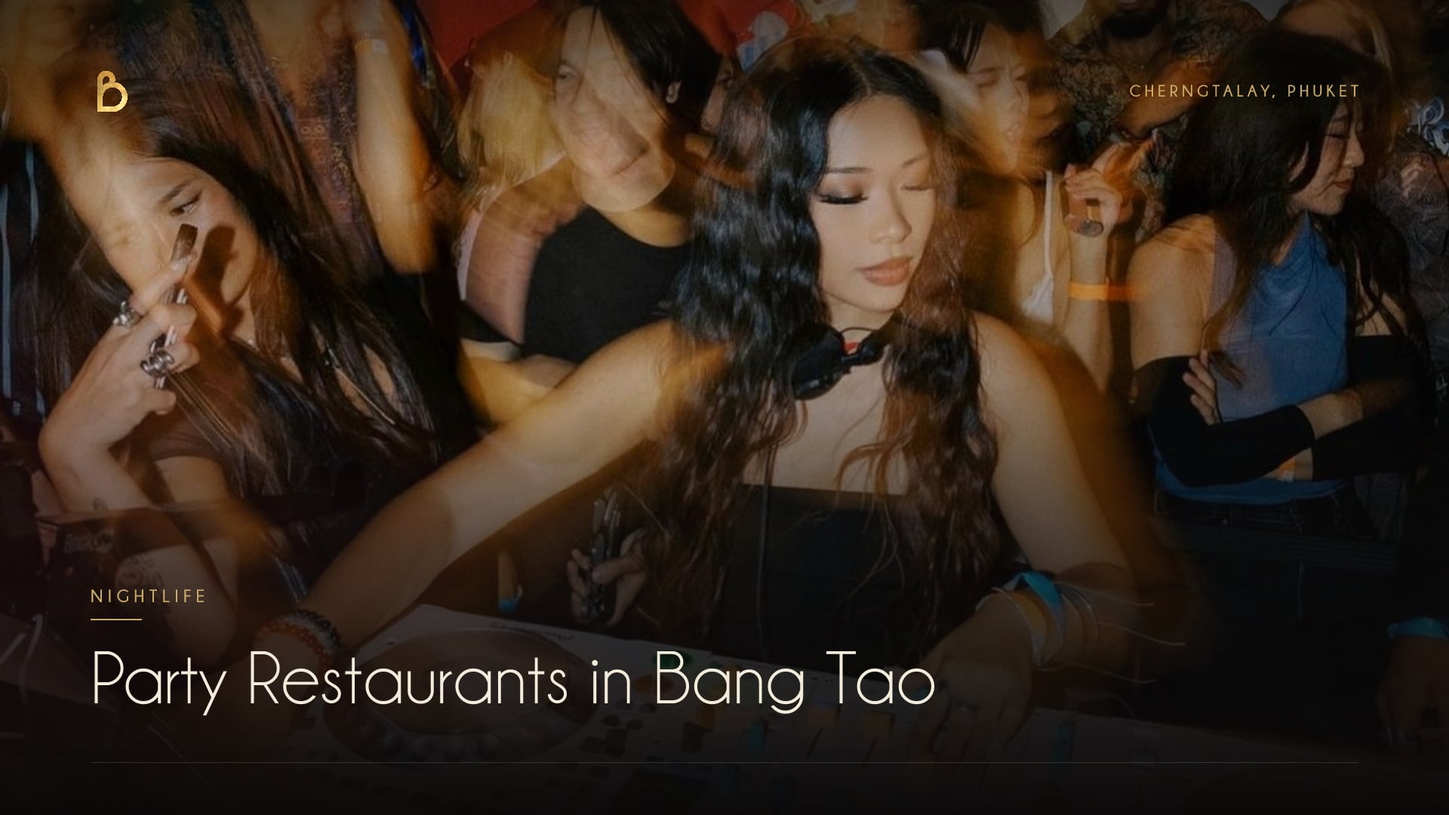
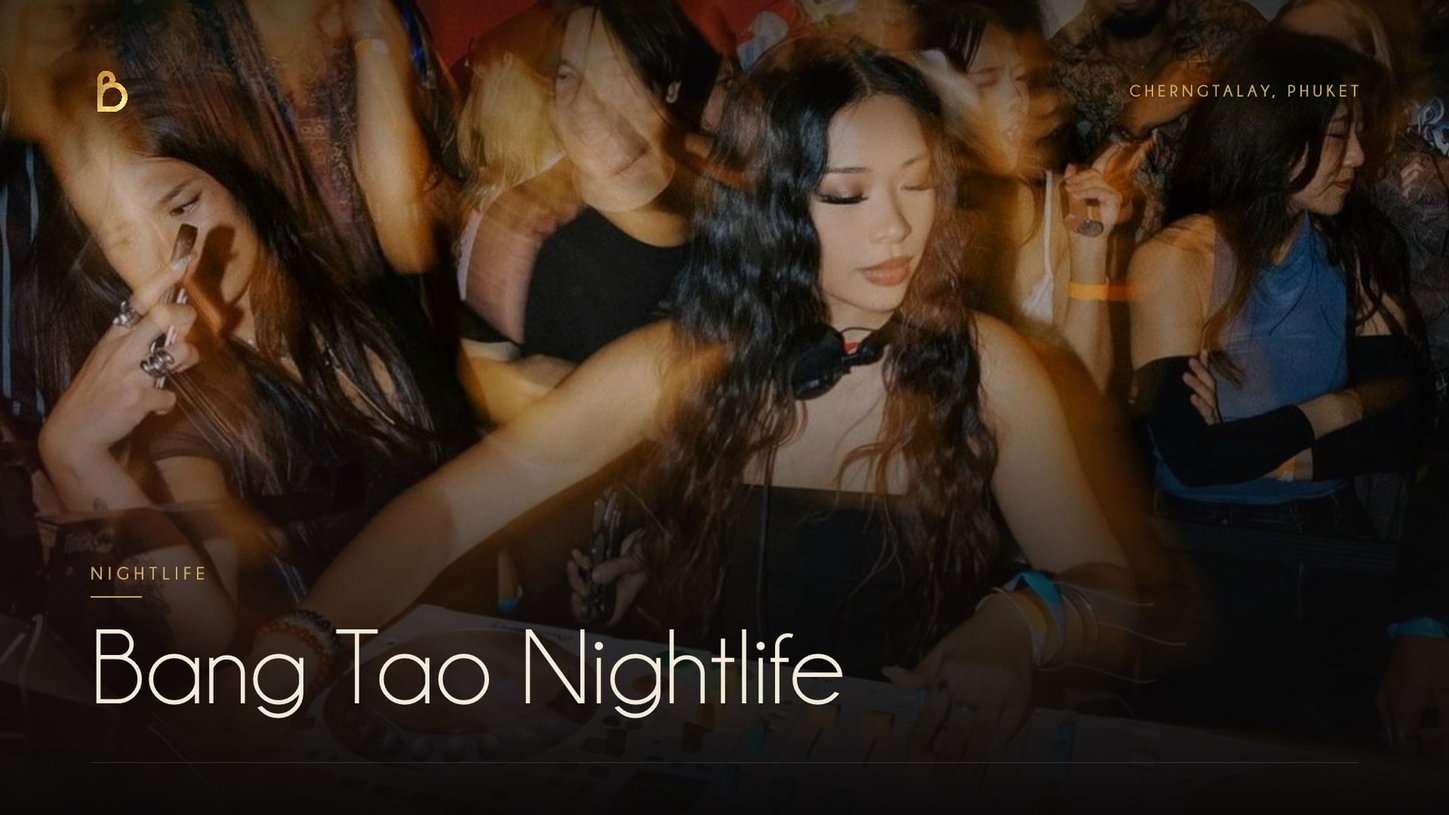
Journal: Bang Tao nightlife in 2026, ten places from sunset to last call
Search Console sends "bang tao nightlife" and "bang tao beach bars" to the
party restaurants guide, which only half answered them. Same URL, rewritten
around the evening: the beach clubs still open after the 2026 clearance of
public beach land, Boat Avenue bars, the CLC show, the night markets, what is
on each night, closing times under the 2023 regulation and getting home.

Sibling guides corrected on the way: Bisou takes its last food order around
11 PM with the bar to 1 AM, and it does have a weekly DJ. The late-night and
where-to-eat guides now link to the nightlife guide.

Changed region(s): [[0.0625, 0.7028, 0.6562, 0.8861]]

diff --git a/content/journal/party-restaurants-bang-tao.md b/content/journal/party-restaurants-bang-tao.md
@@ -1,90 +1,196 @@
 ---
-title: "The Best Party Restaurants in Bang Tao and Cherngtalay: Dinner, DJs and a Late Bar"
+title: "Bang Tao Nightlife in 2026: 10 Places to Go Out, From Sunset to Last Call"
 slug: party-restaurants-bang-tao
 category: Guide
 publishedAt: 2026-07-05
-readMin: 7
+updatedAt: 2026-10-18
+readMin: 11
 hero: /assets/photos/web/party-restaurants-bang-tao-cover-1920.jpg
-heroAlt: "The lit facade of Bisou, a modern French restaurant and cocktail bar in Cherngtalay near Bang Tao Beach, where dinner turns into a night out with a weekly DJ"
-excerpt: "The best party restaurants in Bang Tao and Cherngtalay, where a sit-down dinner comes with cocktails, music and a real crowd. Bisou runs a weekly DJ night and a bar to 1 AM; CLC, JOYA, Moonshine, Catch and Xana round out the list."
-seoTitle: "Party Restaurants Bang Tao Phuket (2026 Guide)"
-seoDescription: "The best party restaurants in Bang Tao and Cherngtalay, Phuket: dinner with DJs, cocktails and late bars near Laguna and Bang Tao Beach, compared by vibe."
+heroAlt: "A DJ at the decks in a packed, dancing crowd, the late part of a night out in Bang Tao and Cherngtalay, Phuket"
+excerpt: "Bang Tao nightlife, checked in October 2026: ten places from sunset to last call, the beach bars that closed in the 2026 clearance, the night markets, what is on each night of the week, what closes when, and how to get home."
+seoTitle: "Bang Tao Nightlife 2026: 10 Bars, Beach Clubs and Late Spots"
+seoDescription: "Bang Tao nightlife, updated October 2026: the beach bars that closed, beach clubs still open, Boat Avenue bars, CLC shows, night markets and getting home."
 author: Bisou Phuket
 listicle: true
 draft: false
 premium: true
-atAGlance: Bisou, a modern French restaurant and cocktail bar at No.4 Bandon-Cherngtalay Road in Choeng Thale, runs a weekly DJ night and a bar to 1 AM, with a quieter corner for anyone who came to talk. Nearby, CLC runs dinner into a dance floor until 2 AM, JOYA has a resident Friday DJ, and the Bang Tao beach clubs Catch and Xana program DJs late.
-ctaLabel: Book the party table
+layout: guide
+atAGlance: "Bang Tao nightlife is a sunset, then dinner, then one late bar kind of night, far quieter than Patong. As of October 2026 the beach clubs Catch, RAVA, Carpe Diem and Xana are open, while several bars on the southern stretch of the beach closed in the 2026 clearance of public beach land. Friday is the fullest night: the Boat Avenue market, the Catch barbecue and the CLC show. Bisou keeps its bar open to 1 AM every night, and CLC runs latest, to 2 AM according to Phuket101."
+ctaLabel: Book a late table
+ctaShort: Reserve
 ctaHref: https://book.bistrochat.com/bisou-phuket
 ---
 
-The best party restaurants in Bang Tao and Cherngtalay are the rooms where a proper sit-down dinner comes with cocktails, music, a DJ and a crowd that stays. As of July 2026, the clearest options are [Bisou](/), a modern French restaurant and cocktail bar on Bandon-Cherngtalay Road that runs a weekly DJ night and a bar to 1 AM; CLC (Come Leo Come), a dinner-to-dance-floor supper club near Boat Avenue; JOYA, with a resident Friday DJ; Moonshine, a jazz lounge with live bands most weekends; and the beach clubs Catch and Xana. This is a guide to festive dinners, not a nightclub crawl: every venue here feeds you first.
+**Bang Tao nightlife is a sunset on the sand, a long dinner, then one late bar: there is no bar street here and nothing like Patong.** As of October 2026 the evening runs from the beach clubs **Catch**, **RAVA**, **Carpe Diem** and **Xana**, through dinner at rooms like **Bisou**, whose bar stays open to 1 AM, to the dinner show and dance floor at **CLC** on Soi Cherngtalay 4, the latest door in the area. Below are the ten places, in the order a night actually runs, with what is on each night of the week, what closed on the beach this year, and how to get home.
 
-Cherngtalay and Bang Tao lean quiet after dinner, so the handful of rooms that hold music, drinks and a late bar are worth knowing by name. Below, each venue is placed honestly by its real party credential: who has a DJ, who has live bands, who closes early, and who runs late.
+Everything here was checked in October 2026 against each venue's own published information, with Phuket101, Time Out and the Thai press where a venue publishes nothing. Where two sources disagree on a closing time, both are printed.
 
-## The short answer: a festive dinner in Cherngtalay
+<nav class="jp-chips" aria-label="Jump to a place">
+  <a href="#s-1-catch-beach-club-sunset-that-runs-to-midni"><b>01</b> Catch</a>
+  <a href="#s-2-rava-beach-club-the-newest-on-the-sand"><b>02</b> RAVA</a>
+  <a href="#s-3-carpe-diem-the-quiet-end-of-the-beach"><b>03</b> Carpe Diem</a>
+  <a href="#s-4-xana-beach-club-the-calm-one-inside-laguna"><b>04</b> Xana</a>
+  <a href="#s-5-bangtao-boat-club-beanbags-by-the-pier"><b>05</b> Boat Club</a>
+  <a href="#s-6-bisou-dinner-that-turns-into-the-night"><b>06</b> Bisou</a>
+  <a href="#s-7-clc-come-leo-come-a-dinner-show-then-a-dan"><b>07</b> CLC</a>
+  <a href="#s-8-moonshine-live-bands-and-a-wednesday-dj"><b>08</b> Moonshine</a>
+  <a href="#s-9-etna-a-dj-on-the-lake-terrace-at-weekends"><b>09</b> Etna</a>
+  <a href="#s-10-mrs-b-bar-and-table-the-wood-fire-and-the"><b>10</b> Mrs B</a>
+</nav>
 
-The short answer is that a genuine dinner-turns-party room in Cherngtalay is rare, and Bisou is one of the few that does it every week. Bisou is a modern French restaurant and cocktail bar at No.4 Bandon-Cherngtalay Road in Choeng Thale, plated to share, with dinner nightly from 6 PM, a weekly DJ night, and the cocktail bar running to 1 AM.
+## What Bang Tao nightlife is like in 2026
 
-Bisou sits a short drive inland from Bang Tao Beach, Laguna and Boat Avenue, reachable in under ten minutes by car or scooter. The room was founded in 2025 by chef Antoine Darquin and sommelier Théo Lavergne, with head chef Manon Bares in the kitchen and Louis Chartier on the room. The food is built to share and to keep a table together late: truffle French toast to start, a house beef Wellington carved at the table, a whole seabass baked in salt crust and flambéed in the room, and a black truffle pasta. See the full [share-style French menu](/menu) for the current lineup.
+**Bang Tao goes out early and well rather than late and loud.** The rhythm is the same most nights: the beach clubs fill for sunset, which falls between about 6:10 PM in December and 6:50 PM in June, then the crowd moves inland to eat, then a smaller crowd stays for one last bar. Kitchens in the area mostly stop between 10 and 11 PM, bars at midnight, and only a couple of rooms go further.
 
-What makes Bisou a party restaurant rather than only a dinner is the second half of the night. Dinner from 6 to about 8 PM is calm, then the service and the music lift the room: Afro house, techno, or old French chanson, a proper cocktail bar, a weekly DJ night, and, when the table is in the mood, a round of shots. It stays a restaurant, not a nightclub, and there is always a quieter corner for anyone who came to talk. It is one of very few Cherngtalay rooms that runs late with drinks and a DJ instead of closing after the kitchen does.
+That is a choice, not a shortcoming. Bang Tao sits around the Laguna resorts, villas and Boat Avenue, so the night is built for people who want a good table and a drink with a view, and who will be on a sunbed again at ten the next morning. If you want clubs until dawn, Patong is a 30 to 40 minute drive south. If you want a great evening that ends at a sensible hour, or a little after, you are in the right place.
 
-## CLC (Come Leo Come): dinner to dance floor
+## The 10 places, compared
 
-CLC is the closest thing in the area to a full supper club, where chef-driven dinner rolls into live performance and a dance floor. CLC (Come Leo Come) sits on Soi Cherngtalay 4 near Boat Avenue and Laguna, open 6 PM to 2 AM, closed Mondays and Tuesdays, and it is 21 and over.
+The list runs in the order of an evening, not as a ranking: sunset first, dinner in the middle, the late rooms last. Closing times are as published by each venue in October 2026; where sources differ, both are given.
 
-The 250-seat main room "transitions from restaurant to performance space to dance floor," according to independent AV trade press from [L-Acoustics](https://www.l-acoustics.com/press-releases/l-acoustics-a-series-brings-the-party-to-dual-space-venue-in-phuket/) in June 2026. Dinner starts at 6 PM, then live music, DJ sets and large-scale tribute shows build across the night; live showcases run roughly three times a week for about 90 minutes before resident and international DJs take over. The set-menu dinner-and-show runs from roughly 2,000 THB per person. CLC won a Luxury Lifestyle Awards 2026 title for Best Luxury Entertainment Restaurant in Phuket. See [clcphuket.com](https://clcphuket.com/) for programming.
+| Place | What it is | Where | Open until | Best night |
+| --- | --- | --- | --- | --- |
+| [Catch Beach Club](https://www.catchbeachclub.com/) | Beach club with a sit-down kitchen | Bang Tao Beach | Midnight, kitchen to 10:30 PM | Friday barbecue, 7 to 10 PM |
+| [RAVA Beach Club](https://www.timeout.com/phuket/attractions/rava-beach-club) | Banyan Tree's beach club, pools and a grill | Laguna, Bang Tao Beach | 10:30 PM or midnight, sources differ | Late afternoon into sunset |
+| [Carpe Diem](https://carpediemphuket.com/) | Mediterranean beach restaurant and beach club | South Bang Tao Beach | 11 PM or midnight, sources differ | A weeknight sunset |
+| [Xana Beach Club](https://www.angsana.com/thailand/laguna-phuket/dining/xana) | Resort beach club, the calm one | Angsana Laguna Phuket | Varies by listing | Weekend beach dinners |
+| [Bangtao Boat Club](https://www.facebook.com/Hugohubphuket) | Open-air food court and bar on the sand | Soi Hat Surin 8, south Bang Tao | Midnight | Happy hour, 4 to 7 PM daily |
+| [Bisou](https://bisouphuket.com/) | Modern French, plated to share, with a cocktail bar | Bandon-Cherngtalay Road | 1 AM, last food order around 11 PM | Every night, a DJ one night a week |
+| [CLC (Come Leo Come)](https://clcphuket.com/) | Dinner show, then a dance floor | Soi Cherngtalay 4 | "Till late" (official), 2 AM (Phuket101) | Friday and Saturday show, 8 PM |
+| [Moonshine](https://www.moonshinephuket.net/) | Live music lounge and gastropub | Lagoon Road, Boat Avenue | Midnight, closed Mondays | Tuesday, Wednesday, Sunday |
+| [Etna](https://www.phuket101.net/etna/) | All-day Mediterranean on the lakefront | Boat Avenue | Midnight or 1 AM, sources differ | DJ on Friday and Saturday |
+| [Mrs B Bar & Table](https://www.timeout.com/phuket/restaurants/mrs-b-bar-table) | Wood-fire grill with an open-air bar, the Yard | Lagoon Road, Boat Avenue | Midnight | Any night, book ahead |
 
-## JOYA and Moonshine: a resident DJ and a jazz bar
+## What happened to the Bang Tao beach bars in 2026?
 
-JOYA and Moonshine are the Boat Avenue rooms for a party-leaning dinner with real music built into the week. Both are full restaurants with cocktail bars, not nightclubs, and both anchor their night on a fixed music program.
+**Several of the bars on the southern half of Bang Tao Beach are gone: from April 2026 the authorities cleared structures built on public beach land, while the beach clubs Catch, RAVA, Carpe Diem and Xana are still open.** [The Thaiger](https://thethaiger.com/news/business/16-restaurants-seized-in-bang-tao-beach-encroachment-crackdown) reported on 2 May 2026 that 16 restaurants had been seized in the encroachment crackdown, and [Nation Thailand](https://www.nationthailand.com/news/general/40066046) reported on 10 May that more than 5 rai of beach land had been reclaimed.
 
-[JOYA](https://joyaphuket.com/) is a European restaurant and cocktail bar on the Boat Avenue dining strip that runs a resident DJ every Friday with a drinks special and a late bar to midnight. Tripadvisor ranks it No.1 of 353 restaurants in Choeng Thale, and a realistic spend is around 2,000 THB per head for food. It is the pick when you want a resident-DJ Friday without leaving the restaurant table.
+[Phuket101](https://www.phuket101.net/bang-tao-beach-nightlife/), which walked the beach in July 2026 and updated its guide on 2 October, reports closure notices along the stretch south of SAii Laguna: Maya Beach Club, Nomad Beach Club, Beach Pig, Yuuhi Beach Club and Karaoke, Reggae Bar and Restaurant, Aloma Seafood and Alex's Shack Bar. Phuket101's [beach club guide](https://www.phuket101.net/phuket-beach-clubs/), updated on 4 October, says Carpe Diem, Catch, RAVA, Xana and The Beach Phuket are still open as normal, and advises checking with each venue before you go. The beach itself is open; it is the shacks that went.
 
-[Moonshine](https://www.moonshinephuket.net/) is a speakeasy-style jazz lounge and gastropub by Boat Avenue with live bands most weekend nights, confirmed on its official site: Frankie Hong's Trio on Fridays, the Chill Out Jazz Band on Saturdays, and Cole Ley on Sundays, all running into the late evening. It is open Tuesday to Sunday, 5 PM to midnight, closed Mondays, with a full Italian-American menu around 800 to 1,500 THB per head. Moonshine is live music and a late bar rather than a DJ dance floor.
+This matters for planning because most Bang Tao nightlife pages online were written before the clearance and still send you to bars that no longer exist. Our rule of thumb: treat a beach bar that is not on a recent list, or has not posted on its own social pages in the last few weeks, as closed until you see otherwise.
 
-## Catch and Xana: beach clubs that also cook dinner
+## 1. Catch Beach Club, sunset that runs to midnight
 
-Catch and Xana are the Bang Tao Beach clubs where you can sit for dinner and then let the party take over on the sand. Both are genuine restaurants with a DJ, so they double as festive dinner spots, with the daytime side covered in our [Phuket beach clubs guide](/journal/best-beach-clubs-phuket).
+**Catch is the default sunset on Bang Tao Beach and the one beach club where you can stay for a proper dinner.** It is open daily from 7:30 AM to midnight, with lunch and dinner served from noon to 10:30 PM according to its own site (another page on the same site says 11 PM), so the table you take for the sunset can become the table you eat at.
 
-[Catch Beach Club](https://www.catchbeachclub.com/) runs a DJ from 2 PM daily and a sit-down kitchen to 10:30 PM, so dinner comes before the party. Its official dining page confirms a Friday BBQ buffet, 7 to 10 PM at 2,190 THB including a half bottle of wine, with a beach fire show, plus a Sunday brunch with live music and a DJ. The official site lists a midnight close, while third-party guides report weekend nights running to around 2 AM.
+Friday is its big night: a barbecue buffet runs from 7 to 10 PM on the sand. Sunday has a brunch from noon to 3 PM. For New Year's Eve, the [Twinpalms festive page](https://twinpalmshotelsresorts.com/festive-season/) lists a countdown party at Catch from 10 PM on 31 December, after a gala buffet dinner from 7 to 10 PM. Catch sits on the beach at 202/88 Choeng Thale and books through [its website](https://www.catchbeachclub.com/). For the daytime side of the beach clubs, see our [Phuket beach clubs guide](/journal/best-beach-clubs-phuket).
 
-[Xana Beach Club](https://www.angsana.com/thailand/laguna-phuket/dining/xana), inside the Laguna complex fronting Angsana Laguna Phuket, pairs full dining with a resident DJ and monthly big-name guests, plus "Sundown Beats" live DJ sets every Tuesday and Thursday from 6 to 8 PM and regular beach parties. The bar runs to 1 AM on Fridays and Saturdays, midnight other nights. Budget roughly 1,500 to 2,500 THB per head for a night of food and drinks.
+## 2. RAVA Beach Club, the newest on the sand
 
-## Party restaurants in Bang Tao and Cherngtalay, compared
+**RAVA is Banyan Tree's beach club, opened in August 2025 inside Laguna Phuket, and the most polished way to watch the sun go down at Bang Tao.** It is built in zones: a poolside social area with infinity pools and cabanas, a grill for dry-aged meat and whole fish, and a more private area, according to [Time Out](https://www.timeout.com/phuket/attractions/rava-beach-club).
 
-This table sorts the realistic party-restaurant options by vibe and how their night runs, as of July 2026. Bisou is listed first because it is the Cherngtalay dinner room that turns into a weekly DJ night and holds a bar to 1 AM.
+Phuket101 has it open from 10 AM to 10:30 PM with DJs across the zones; Time Out lists 10 AM to midnight. Either way it is a sunset and early evening place rather than a late one, so plan to move on for dinner.
 
-| Venue | Vibe and music | Nearest area | Distinguishing festive fact |
-| --- | --- | --- | --- |
-| Bisou | Modern French, calm early then Afro house, techno and old French, cocktail bar | Bandon-Cherngtalay Rd, near Laguna and Bang Tao Beach | Weekly DJ night, bar to 1 AM, a quieter corner always |
-| CLC (Come Leo Come) | Dinner-to-dance-floor supper club | Soi Cherngtalay 4, near Boat Avenue | Live shows plus DJs, open to 2 AM, 21+ |
-| JOYA | European restaurant and cocktail bar | Boat Avenue, Cherngtalay | Resident Friday DJ, bar to midnight |
-| Moonshine | Jazz lounge and gastropub | Boat Avenue, Cherngtalay | Live bands Fri to Sun, to midnight |
-| Catch Beach Club | Beach club and restaurant | Bang Tao Beach | DJ daily from 2 PM, Friday BBQ fire show |
-| Xana Beach Club | Beach club and restaurant | Bang Tao Beach, Laguna | Resident and guest DJs, bar to 1 AM weekends |
+## 3. Carpe Diem, the quiet end of the beach
 
-A couple of early-evening rooms are worth naming too. [Mingle at HOMA Cherngtalay](https://www.homa.co/mingle) runs a resident DJ every Thursday, 6 to 9 PM, at its rooftop aperitivo and ladies' nights, then closes at 11 PM, so it is a sunset DJ session rather than a late bar. [Project Artisan](https://www.theprojectartisan.com/) near Layan is an art-and-garden restaurant and cocktail bar with craft beer on tap and DJ sets on most weeknights, closing at 11 PM.
+**Carpe Diem is the sunset and dinner stop at the quieter southern end of Bang Tao Beach, right at the waterline.** It runs a Mediterranean kitchen and, by its own account, DJs on the soundtrack and Pool Party Weekends, so for the calmer version book a weeknight sunset. Its own site gives 11 AM to midnight; Phuket101 lists noon to 11 PM. It survived the 2026 clearance and is listed as open. Book through [carpediemphuket.com](https://carpediemphuket.com/).
 
-## Book the party at Bisou
+## 4. Xana Beach Club, the calm one inside Laguna
 
-If you want the dinner and the night out in one room, Bisou is built for it: French plates to share from 6 PM, a proper cocktail bar, a weekly DJ night, and a bar open to 1 AM. Browse the [share-style menu](/menu), then reserve at [book.bistrochat.com/bisou-phuket](https://book.bistrochat.com/bisou-phuket). For a group takeover or a buyout with your own crowd and music, see our [private events](/private-events) page. For the drinks-led side of the same room, read the [Cherngtalay cocktail bar guide](/journal/cocktail-bar-cherngtalay), and for the kitchens that stay open latest, the [Bang Tao late-night dining guide](/journal/late-night-dining-bang-tao).
+**Xana is the beach club of the Angsana Laguna Phuket resort, and in 2026 it is the gentle option.** Phuket101 describes it as calm, with occasional weekend beach dinners or live music. Published hours vary a great deal between listings, from a 9 PM close to midnight, so check with the resort on the day through [Angsana's dining page](https://www.angsana.com/thailand/laguna-phuket/dining/xana). Treat it as a sunset drink with your feet in the sand, then move inland.
+
+## 5. Bangtao Boat Club, beanbags by the pier
+
+**Bangtao Boat Club, the former Hugo Hub, is an open-air food court and bar on the sand at the south end of the beach, the most casual night on this list.** Independent food vendors share beanbag seating beside the boat pier, with pool and darts, a daily happy hour from 4 to 7 PM, and DJs on most evenings. It is open from 10 AM to midnight, according to [Phuket101](https://www.phuket101.net/hugo-hub-phuket/), updated September 2026.
+
+It sits at Soi Hat Surin 8, on the same southern stretch that lost its shacks in 2026. Phuket101 still listed it as open in September, but check [its Facebook page](https://www.facebook.com/Hugohubphuket) before you go.
+
+## 6. Bisou, dinner that turns into the night
+
+**Bisou is the dinner in the middle of the evening, and the one room on this list where a French dinner runs straight into a bar that stays open to 1 AM.** It sits at No.4 Bandon-Cherngtalay Road in Cherngtalay, a short drive inland from Laguna, Boat Avenue and Bang Tao Beach. Dinner is served nightly from 6 PM, the last food order is around 11 PM, and the cocktail bar keeps going to 1 AM.
+
+The room changes with the night of the week. One night a week a DJ plays and the room lifts; the rest of the week the music stays lower and the candles do the work. It stays a restaurant, not a club, and there is always a quieter corner for the table that came to talk. The plates are made to share and to keep a table together late: a beef Wellington carved at the table, a whole seabass in salt crust flambéed in the room, truffle French toast, with warm sourdough and French butter on every table. Coming just for a drink at the bar is fine.
+
+Bisou is listed sixth because the list follows the evening, and dinner comes after the sunset. See the [share-style menu](/menu), the [cocktail bar](/journal/cocktail-bar-cherngtalay), or everything to know before you book in [the Bisou guide](/journal/bisou-phuket-guide).
+
+## 7. CLC (Come Leo Come), a dinner show, then a dance floor
+
+**CLC is the closest thing Bang Tao has to a night out in the city sense: dinner, a staged show, then DJs and a dance floor.** Its main room, which seats up to 250, "transforms from restaurant to stage to dance floor," in the words of the sound company [L-Acoustics](https://www.l-acoustics.com/press-releases/l-acoustics-a-series-brings-the-party-to-dual-space-venue-in-phuket/), writing about the venue in June 2026.
+
+[CLC's own site](https://clcphuket.com/) opens the doors at 6 PM "till late", with dinner on Thursday and Sunday and a Dinner and Show at 8 PM on Friday and Saturday, plus a karaoke stage. Phuket101, updated September 2026, gives the hours as 6 PM to 2 AM, closed Monday and Tuesday, which makes CLC the latest door on this list. Time Out puts the dinner and show from about 2,000 THB. The October calendar includes an MTV Legends night on 30 October and a Halloween night on 31 October. It is on Soi Cherngtalay 4, near Boat Avenue.
+
+## 8. Moonshine, live bands and a Wednesday DJ
+
+**Moonshine is the live music room of Bang Tao, a dark lounge and gastropub on Lagoon Road by Boat Avenue with a band or a DJ on its programmed nights.** It is open Tuesday to Sunday from 5 PM to midnight and closed on Mondays.
+
+[Its own site](https://www.moonshinephuket.net/) lists three programmed nights, each from 8 to 11:30 PM: Latin Night on Tuesday with the Jayzee Band, "Rewind Wednesdays" with resident DJ Yvan Polge playing 1990s and 2000s hip hop and R&B, and "Silk and Soul" with Cole Ley and band on Sunday. It is the best pick in the area if music, not a dance floor, is the point of the night.
+
+## 9. Etna, a DJ on the lake terrace at weekends
+
+**Etna is the all-day Mediterranean restaurant on the Boat Avenue lakefront, and on Friday and Saturday nights it puts a DJ on the lakeside terrace.** Phuket101 lists it as open from 9 AM to midnight; another listing gives 7:30 AM to 1 AM, so if you are counting on the late hour, check first. On Fridays it sits a few steps from the Boat Avenue market, which makes it an easy place to land after browsing. See [Phuket101's page on Etna](https://www.phuket101.net/etna/).
+
+## 10. Mrs B Bar and Table, the wood fire and the Yard
+
+**Mrs B is a wood-fire grill restaurant on Lagoon Road at Boat Avenue with an open-air cocktail bar, the Yard, attached.** [Time Out](https://www.timeout.com/phuket/restaurants/mrs-b-bar-table) lists it as open daily from 6 PM to midnight, with lunch Tuesday to Saturday, and reports R&B throwback nights. The room used to be Bampot Kitchen and Bar. Phuket101 notes that it is no longer a walk-in kind of place, so book. The Yard runs weekly drinks offers that change often; check its Instagram for the current week.
+
+Elsewhere around Boat Avenue, Aja Bistro and Bar runs DJ nights from 5 PM, and JOYA serves until midnight on the dining strip.
+
+## Which night to go out in Bang Tao
+
+**Go out on a Friday if you only have one night: it stacks the most in one evening.** Here is what each venue publishes for each night of the week as of October 2026. Bisou is open every night, and its DJ plays one night a week.
+
+| Night | What is on |
+| --- | --- |
+| Monday | Bang Tao Night Market, afternoon into evening. Moonshine and CLC are closed. |
+| Tuesday | Latin Night at Moonshine, 8 to 11:30 PM. CLC is closed. |
+| Wednesday | "Rewind Wednesdays" at Moonshine, a resident DJ playing 1990s and 2000s hip hop and R&B. |
+| Thursday | Bang Tao Night Market. Dinner at CLC. |
+| Friday | The Boat Avenue market, the Catch barbecue from 7 PM, the CLC Dinner and Show at 8 PM, a DJ at Etna. |
+| Saturday | The CLC Dinner and Show at 8 PM, a DJ at Etna. |
+| Sunday | Brunch at Catch, noon to 3 PM. "Silk and Soul" at Moonshine, 8 to 11:30 PM. Dinner at CLC. |
+
+## The Bang Tao night markets: Monday, Thursday and Friday
+
+**Bang Tao has two evening markets: the Bang Tao Night Market on Monday and Thursday, and the Fun Friday market at Boat Avenue.** Both are better as the start of a night than as the night itself.
+
+- **Bang Tao Night Market** is on Soi Bang Tao 2, beside Lotus's Cherngtalay, about ten minutes' walk from the beach. [SAii Laguna](https://www.saiihotels.com/local-markets-around-bangtao-easy-evenings-local-flavours/), in May 2026, lists Monday from 4 to 9 PM and Thursday from 2 to 8 PM.
+- **The Fun Friday market** fills the Boat Avenue square every Friday from late afternoon. Published closing times range from 9 PM (Phuket101, October 2026) to 11 PM (SAii, May 2026). Parking fills fast, so a taxi is the easier way in.
+
+## How late does Bang Tao stay open, and how to get home
+
+**Most of Bang Tao closes by midnight, a few bars run to 1 AM, and the latest published door is CLC at 2 AM.** Under a December 2023 regulation, licensed entertainment venues may stay open until 4 AM inside designated tourist zones and inside legally registered hotels nationwide, according to [TAT News](https://www.tatnews.org/2023/12/entertainment-venues-in-thai-tourist-destinations-to-open-until-4-am/). In Phuket the zones centre on Patong, and we found no published zone list that includes Bang Tao or Cherngtalay. Outside the zones, [Go2 Thailand](https://go2-thailand.com/blog/thailand-4am-closing-time-nightlife-law-2026/) says the traditional 2 AM close still applies to licensed entertainment venues.
+
+Getting home is the part to plan. Grab and Bolt both work in Bang Tao, but drivers thin out after about 10 PM and again after midnight, and fares surge in the rain and on big nights such as New Year's Eve, according to the [Phuket Expat Guide](https://phuketexpatguide.com/blog/grab-bolt-phuket-guide/). Songthaews do not run at night. Ask the venue or your hotel to book a car before the last round, or arrange a return transfer if you are staying at the far end of Laguna.
+
+<div class="jp-band">
+  <span class="jp-band__lab">Cherngtalay</span>
+  <h2 class="jp-nonum">A late table, every night</h2>
+  <p>Dinner from 6 PM, plates to share, the last food order around 11 PM and the bar open to 1 AM. Come for dinner, or just for the bar.</p>
+  <a class="btn btn--gilt" href="https://book.bistrochat.com/bisou-phuket" target="_blank" rel="noreferrer">Book a table at Bisou</a>
+</div>
+
+For the kitchens that serve latest, see our guide to [late-night dining in Bang Tao](/journal/late-night-dining-bang-tao); for dinner across the whole area, [where to eat in Bang Tao and Cherngtalay](/journal/where-to-eat-bang-tao); for a group takeover with your own music, [private events](/private-events).
 
 ## Frequently asked questions
 
+### What is the nightlife like in Bang Tao?
+
+Bang Tao nightlife is relaxed and early compared with Patong: beach clubs for sunset, then dinner, then one late bar. As of October 2026 the beach clubs Catch, RAVA, Carpe Diem and Xana are open, Boat Avenue has the bars and live music, Bisou's bar runs to 1 AM, and CLC, with a dinner show and a dance floor, runs latest, to 2 AM according to Phuket101.
+
+### What are the best bars in Bang Tao?
+
+As of October 2026, the best bars in Bang Tao are Moonshine on Lagoon Road, a live music lounge open to midnight and closed on Mondays; Mrs B at Boat Avenue, open to midnight according to Time Out, with its open-air cocktail bar, the Yard; the cocktail bar at Bisou on Bandon-Cherngtalay Road, open to 1 AM every night; and CLC on Soi Cherngtalay 4, the latest door, with DJs after its weekend show. For sunset, start at the beach clubs Catch, RAVA or Carpe Diem.
+
 ### What are the best party restaurants in Bang Tao and Cherngtalay?
 
-As of July 2026, the best festive dinner rooms near Bang Tao and Cherngtalay are Bisou, a modern French restaurant and cocktail bar with a weekly DJ night and a bar to 1 AM; CLC, a dinner-to-dance-floor supper club open to 2 AM; JOYA, with a resident Friday DJ; Moonshine, a jazz lounge with weekend live bands; and the beach clubs Catch and Xana. Each serves a full dinner before the music takes over.
+The restaurants where dinner turns into a party are CLC, with a Dinner and Show on Friday and Saturday at 8 PM and DJs after; Bisou, a modern French restaurant with a cocktail bar to 1 AM and a DJ one night a week; Catch Beach Club, with a Friday barbecue on the sand; and Etna at Boat Avenue, with a DJ on the lake terrace on Friday and Saturday.
+
+### Are the Bang Tao beach bars still open after the 2026 clearance?
+
+The beach is open, but several bars built on public beach land at the southern end were closed from April 2026, including Maya Beach Club, Nomad Beach Club, Beach Pig and Reggae Bar, according to Phuket101 in October 2026. Catch, Carpe Diem, RAVA, Xana and The Beach Phuket are listed as open as normal.
+
+### Is there a night market in Bang Tao?
+
+Yes. The Bang Tao Night Market on Soi Bang Tao 2, beside Lotus's Cherngtalay, runs on Monday from 4 to 9 PM and Thursday from 2 to 8 PM, according to SAii Laguna in May 2026. The Fun Friday market fills Boat Avenue every Friday from late afternoon into the evening.
+
+### What time do bars close in Bang Tao?
+
+Most bars and restaurants in Bang Tao close at midnight. Bisou's bar runs to 1 AM, and CLC is the latest, to 2 AM according to Phuket101. Phuket's 4 AM zones centre on Patong, and none we found includes Bang Tao.
 
 ### Which restaurant in Cherngtalay has a DJ?
 
-Bisou hosts a weekly DJ night in its Cherngtalay dining room, playing Afro house, techno or old French chanson, with a cocktail bar open to 1 AM. JOYA runs a resident DJ every Friday near Boat Avenue, CLC programs DJs and live shows on Soi Cherngtalay 4, and Mingle at HOMA has a Thursday sunset DJ set until 9 PM.
+Bisou has a DJ one night a week in its Cherngtalay dining room and a bar open to 1 AM. Moonshine has a resident DJ on Wednesdays, Etna puts a DJ on its lake terrace on Friday and Saturday, CLC runs DJs after its weekend show, Carpe Diem lists DJs and pool party weekends, and Bangtao Boat Club has DJs on most evenings.
 
-### Where can I have dinner and then dance near Bang Tao Beach?
+### How do I get home late from Bang Tao?
 
-For dinner then a dance floor near Bang Tao Beach, CLC is the closest supper-club format, with chef-driven dinner from 6 PM rolling into live shows and DJs until 2 AM. The beach clubs Catch and Xana serve sit-down dinner and then run DJs and beach parties late on weekends, and Bisou, a short drive inland, pairs a French dinner with a weekly DJ night and a bar to 1 AM.
-
-### Is Bisou a good place for a group party in Phuket?
-
-Yes. Bisou is a modern French restaurant and cocktail bar in Cherngtalay built for a group night out: sharing plates, a calm early dinner that lifts into a weekly DJ night, a bar open to 1 AM, and a quieter corner when you want it. For larger parties, takeovers and buyouts, see the [private events](/private-events) page, or reserve a table at [book.bistrochat.com/bisou-phuket](https://book.bistrochat.com/bisou-phuket).
+Grab and Bolt both operate in Bang Tao, but there are fewer drivers after midnight and fares rise in the rain and on big nights. Songthaews do not run at night, so ask the venue or your hotel to book a car before the last round, or arrange a return transfer in advance.

diff --git a/content/journal/where-to-eat-bang-tao.md b/content/journal/where-to-eat-bang-tao.md
@@ -123,7 +123,7 @@ Then there is the dinner you plan around. A room you book, dress for a little, a
 
 [Bisou](/) is a modern French restaurant and cocktail bar at No.4 Bandon-Cherngtalay Road, a short drive from Laguna, Boat Avenue and Bang Tao Beach, with parking at the rear via the side street. It opened in 2025, founded by chef Antoine Darquin and sommelier Théo Lavergne, with Manon Bares running the kitchen and Louis Chartier looking after the room. Everything to know before you book at Bisou, from prices to dress code, is in [the Bisou guide](/journal/bisou-phuket-guide).
 
-The [menu](/menu) is plated to share, so a table orders together rather than each to their own: truffle French toast to begin, a house beef Wellington carved at the table, a whole seabass baked in salt crust and flambéed beside you. Dinner runs nightly from 6:00 PM to 1:00 AM with the cocktail bar throughout, which matters here: most kitchens on this list stop serving food between 10 and 11 PM.
+The [menu](/menu) is plated to share, so a table orders together rather than each to their own: truffle French toast to begin, a house beef Wellington carved at the table, a whole seabass baked in salt crust and flambéed beside you. Dinner runs nightly from 6:00 PM, with the last food order around 11 PM and the cocktail bar open to 1:00 AM, which matters here: most kitchens on this list stop serving food between 10 and 11 PM.
 
 Bread and French butter come to every table before anything else, at no charge, and the [birthday plate](/journal/birthday-dinner-phuket) arrives without being asked for if someone is celebrating.
 
@@ -145,7 +145,7 @@ Bread and French butter come to every table before anything else, at no charge, 
 | The dinner you planned the trip around | Bisou, Bandon-Cherngtalay Road |
 | Anything after 11 PM | Bisou, or the bar at Joya until midnight |
 
-**Read next:** [the best French restaurants in Phuket](/journal/best-french-restaurants-phuket), [leaving your Laguna resort for dinner](/journal/dinner-off-resort-laguna-phuket), [the best steakhouses in Phuket](/journal/best-steakhouses-phuket), and [the cocktail bar at Bisou](/journal/cocktail-bar-cherngtalay).
+**Read next:** [the best French restaurants in Phuket](/journal/best-french-restaurants-phuket), [leaving your Laguna resort for dinner](/journal/dinner-off-resort-laguna-phuket), [the best steakhouses in Phuket](/journal/best-steakhouses-phuket), [the cocktail bar at Bisou](/journal/cocktail-bar-cherngtalay), and [Bang Tao nightlife, from sunset to last call](/journal/party-restaurants-bang-tao).
 
 Eating as a couple rather than as a table? We ranked [the 10 most romantic restaurants in Bang Tao and Cherngtalay](/journal/romantic-restaurants-bang-tao), with the table to ask for at each one.
 
@@ -167,7 +167,7 @@ Friday. Fun Friday Avenue runs along the Boat Avenue strip from about 4pm until 
 
 ### Where can you eat late in Bang Tao?
 
-Most kitchens here stop serving food between 10 and 11 PM. Joya runs to midnight, and Bisou on Bandon-Cherngtalay Road serves dinner to 1 AM with the cocktail bar open throughout. Beyond that the options are the 24-hour convenience stores on the main road.
+Most kitchens here stop serving food between 10 and 11 PM. Joya runs to midnight, and Bisou on Bandon-Cherngtalay Road takes its last food order around 11 PM and keeps the cocktail bar open to 1 AM. Beyond that the options are the 24-hour convenience stores on the main road.
 
 ### How far is Boat Avenue from Bang Tao Beach?
 

diff --git a/content/journal/best-beach-clubs-phuket.md b/content/journal/best-beach-clubs-phuket.md
@@ -48,7 +48,7 @@ The honest common thread: at a beach club the food is usually the supporting act
 
 Here is the part we are biased about, so take it as a friendly local tip rather than a flex.
 
-If you are a foodie and you want the *meal* to be the thing you remember, the easy move is to shower off the salt, leave the beach club around sunset, and drive a few minutes inland to [Bisou](/) in Cherngtalay. We are a modern French restaurant and cocktail bar, "simple and sexy," open for dinner only, nightly from 6:00 PM to 1:00 AM. No pool, no DJ booth, no day-beds. Just dinner, done properly.
+If you are a foodie and you want the *meal* to be the thing you remember, the easy move is to shower off the salt, leave the beach club around sunset, and drive a few minutes inland to [Bisou](/) in Cherngtalay. We are a modern French restaurant and cocktail bar, "simple and sexy," open for dinner only, nightly from 6:00 PM to 1:00 AM. No pool, no day-beds. Just dinner, done properly.
 
 What that looks like: truffle French toast to start, a whole salt-crust seabass flambeed at your table, a cocktail-bar-forward drinks list, and a room that is built around the food instead of the view. It is the after-beach dinner that beats typical beach-club food, not because beach clubs are bad, but because this is a different thing entirely. One is a day. The other is a meal.
 

diff --git a/content/journal/late-night-dining-bang-tao.md b/content/journal/late-night-dining-bang-tao.md
@@ -44,7 +44,7 @@ Ranked by how late the food actually comes out, the order is clear: 24-hour stor
 
 For genuinely all-night food, the 24-hour convenience stores on the main Bandon-Cherngtalay Road are the only guaranteed option, with the street stalls and noodle carts near Boat Avenue trading later than most restaurants, though hours shift by night and vendor.
 
-For a proper sit-down dinner that runs later than the local norm, Bisou is the practical choice, with last food orders around 11 PM and a cocktail bar open to 1 AM. If you want the drinks-led side of the same room rather than a dinner table, read the [Cherngtalay cocktail bar guide](/journal/cocktail-bar-cherngtalay).
+For a proper sit-down dinner that runs later than the local norm, Bisou is the practical choice, with last food orders around 11 PM and a cocktail bar open to 1 AM. If you want the drinks-led side of the same room rather than a dinner table, read the [Cherngtalay cocktail bar guide](/journal/cocktail-bar-cherngtalay). For the beach clubs and bars that carry the night on elsewhere in Bang Tao, see our [Bang Tao nightlife guide](/journal/party-restaurants-bang-tao).
 
 For guests staying inside Laguna, in-room dining is the simplest late option, since the property restaurants close their kitchens earlier in the evening.
 
